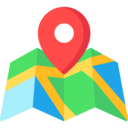
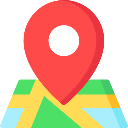
[OSM Scout app] Many fixes. Contributes to OMP#DR-95

diff --git a/qml/pages/MainPage.qml b/qml/pages/MainPage.qml
@@ -38,10 +38,8 @@ Page {
 
     property bool mapFollowing: false
     property var mapGpsPosition: positionSource.position.coordinate
-    property var mapCenterPosition: QtPositioning.coordinate(0, 0)
-    property var pressCoords: QtPositioning.coordinate(0, 0)
-    property var startCoords: QtPositioning.coordinate(0, 0)
-    property var endCoords: QtPositioning.coordinate(0, 0)
+    property var mapCenterPosition: QtPositioning.coordinate(NaN, NaN)
+    property var pressCoords: QtPositioning.coordinate(NaN, NaN)
 
     allowedOrientations: Orientation.Portrait
 
@@ -72,18 +70,8 @@ Page {
                     font.bold: true
                 }
 
-                LineTextField {
-                    id: startLatitude
-
-                    key: qsTr(" - latitude:")
-                    value: qsTr("...")
-                }
-
-                LineTextField {
-                    id: startLongitude
-
-                    key: qsTr(" - longitude:")
-                    value: qsTr("...")
+                CoordField {
+                    id: startCoordField
                 }
 
                 Label {
@@ -91,18 +79,8 @@ Page {
                     font.bold: true
                 }
 
-                LineTextField {
-                    id: endLatitude
-
-                    key: qsTr(" - latitude:")
-                    value: qsTr("...")
-                }
-
-                LineTextField {
-                    id: endLongitude
-
-                    key: qsTr(" - longitude:")
-                    value: qsTr("...")
+                CoordField {
+                    id: endCoordField
                 }
 
                 Row {
@@ -119,13 +97,12 @@ Page {
 
                     Button {
                         text: qsTr("Route")
-                        enabled: startLatitude.text !== "" && startLongitude.text !== ""
-                                 && endLatitude.text !== "" && endLongitude.text !== ""
+                        enabled: startCoordField.coordinate.isValid && endCoordField.coordinate.isValid
                         onClicked: {
                             routeLoadingIndicator.running = true
                             mapRouteQuery.clearWaypoints()
-                            mapRouteQuery.addWaypoint(startCoords)
-                            mapRouteQuery.addWaypoint(endCoords)
+                            mapRouteQuery.addWaypoint(startCoordField.coordinate)
+                            mapRouteQuery.addWaypoint(endCoordField.coordinate)
                             mapRouteModel.update()
                         }
                     }
@@ -197,7 +174,6 @@ Page {
                 }
             }
             Component.onCompleted: map.initMapCenter()
-            onZoomLevelChanged: console.log(zoomLevel)
 
             MapRoute {
                 id: mapRoute
@@ -207,20 +183,20 @@ Page {
                 id: markerStart
 
                 visible: false
-                source: "../images/location-stroked.svg"
+                source: "../images/location.svg"
             }
 
             MapMarker {
                 id: markerFinish
 
                 visible: false
-                source: "../images/location-stroked.svg"
+                source: "../images/location.svg"
             }
 
             MapMarker {
                 coordinate: mapGpsPosition
                 visible: mapGpsPosition.isValid
-                source: "../images/mylocation-stroked.svg"
+                source: "../images/mylocation.svg"
             }
 
             Column {
@@ -256,6 +232,7 @@ Page {
                     rightMargin: Theme.horizontalPageMargin
                 }
                 icon.source: "image://theme/icon-m-menu"
+                highlighted: drawer.open
                 onClicked: drawer.open ? drawer.hide() : drawer.show()
             }
 

diff --git a/translations/harbour-walking-ru.ts b/translations/harbour-walking-ru.ts
@@ -2,6 +2,21 @@
 <!DOCTYPE TS>
 <TS version="2.1" language="ru">
 <context>
+    <name>CoordField</name>
+    <message>
+        <source>latitude:</source>
+        <translation>широта:</translation>
+    </message>
+    <message>
+        <source>longitude:</source>
+        <translation>долгота:</translation>
+    </message>
+    <message>
+        <source>...</source>
+        <translation>...</translation>
+    </message>
+</context>
+<context>
     <name>CoverPage</name>
     <message>
         <source>Walk with
@@ -28,18 +43,6 @@ Sight Safary</translation>
         <source>Route to:</source>
         <translation>Маршрут до:</translation>
     </message>
-    <message>
-        <source> - latitude:</source>
-        <translation> - широта:</translation>
-    </message>
-    <message>
-        <source> - longitude:</source>
-        <translation> - долгота:</translation>
-    </message>
-    <message>
-        <source>...</source>
-        <translation>...</translation>
-    </message>
 </context>
 <context>
     <name>PointDialog</name>
@@ -50,14 +53,6 @@ Sight Safary</translation>
     <message>
         <source>To</source>
         <translation>До</translation>
-    </message>
-    <message>
-        <source>Latitude:</source>
-        <translation>Широта:</translation>
-    </message>
-    <message>
-        <source>Longitude:</source>
-        <translation>Долгота</translation>
     </message>
 </context>
 </TS>

diff --git a/translations/harbour-walking.ts b/translations/harbour-walking.ts
@@ -2,6 +2,21 @@
 <!DOCTYPE TS>
 <TS version="2.1" language="en">
 <context>
+    <name>CoordField</name>
+    <message>
+        <source>latitude:</source>
+        <translation>latitude:</translation>
+    </message>
+    <message>
+        <source>longitude:</source>
+        <translation>longitude:</translation>
+    </message>
+    <message>
+        <source>...</source>
+        <translation>...</translation>
+    </message>
+</context>
+<context>
     <name>CoverPage</name>
     <message>
         <source>Walk with
@@ -28,18 +43,6 @@ Sight Safary</translation>
         <source>Route to:</source>
         <translation>Route to:</translation>
     </message>
-    <message>
-        <source> - latitude:</source>
-        <translation> - latitude:</translation>
-    </message>
-    <message>
-        <source> - longitude:</source>
-        <translation> - longitude:</translation>
-    </message>
-    <message>
-        <source>...</source>
-        <translation>...</translation>
-    </message>
 </context>
 <context>
     <name>PointDialog</name>
@@ -50,14 +53,6 @@ Sight Safary</translation>
     <message>
         <source>To</source>
         <translation>To</translation>
-    </message>
-    <message>
-        <source>Latitude:</source>
-        <translation>Latitude:</translation>
-    </message>
-    <message>
-        <source>Longitude:</source>
-        <translation>Longitude:</translation>
     </message>
 </context>
 </TS>

diff --git a/qml/views/CoordField.qml b/qml/views/CoordField.qml
@@ -28,18 +28,46 @@
 ****************************************************************************/
 
 import QtQuick 2.5
-import QtLocation 5.0
-import QtGraphicalEffects 1.0
+import QtPositioning 5.0
 import Sailfish.Silica 1.0
 
-MapPolyline {
-    line.color: Qt.rgba(0.9, 0.3, 0.3, 1.0)
-    line.width: 5
+Item {
+    property var coordinate: QtPositioning.coordinate(NaN, NaN)
 
-    layer.enabled: true
-    layer.effect: Glow {
-        radius: Theme.paddingSmall / 2
-        samples: radius * 2
-        color: Qt.rgba(0.0, 0.0, 0.0, 1.0)
+    width: row.implicitWidth
+    height: row.implicitHeight
+
+    Row {
+        id: row
+
+        anchors.fill: parent
+        spacing: Theme.paddingSmall
+
+        Image {
+            id: image
+
+            height: column.implicitHeight
+            fillMode: Image.PreserveAspectFit
+            source: "../images/location.svg"
+            sourceSize.height: image.height - Theme.paddingSmall * 2
+        }
+
+        Column {
+            id: column
+
+            InfoField {
+                id: latitude
+
+                key: qsTr("latitude:")
+                value: coordinate.isValid ? coordinate.latitude : qsTr("...")
+            }
+
+            InfoField {
+                id: longitude
+
+                key: qsTr("longitude:")
+                value: coordinate.isValid ? coordinate.longitude : qsTr("...")
+            }
+        }
     }
 }

diff --git a/qml/views/PointDialog.qml b/qml/views/PointDialog.qml
@@ -50,14 +50,8 @@ Rectangle {
         spacing: Theme.paddingMedium
         width: parent.width
 
-        LineTextField {
-            key: qsTr("Latitude:")
-            value: pressCoords.latitude
-        }
-
-        LineTextField {
-            key: qsTr("Longitude:")
-            value: pressCoords.longitude
+        CoordField {
+            coordinate: pressCoords
         }
 
         Row {
@@ -69,9 +63,7 @@ Rectangle {
                 width: Theme.buttonWidthSmall
 
                 onClicked: {
-                    startLatitude.value = pressCoords.latitude
-                    startLongitude.value = pressCoords.longitude
-                    startCoords = pressCoords
+                    startCoordField.coordinate = pressCoords
                     markerStart.coordinate = pressCoords
                     markerStart.visible = true
                     choiceDialog.visible = false
@@ -83,9 +75,7 @@ Rectangle {
                 width: Theme.buttonWidthSmall
 
                 onClicked: {
-                    endLatitude.value = pressCoords.latitude
-                    endLongitude.value = pressCoords.longitude
-                    endCoords = pressCoords
+                    endCoordField.coordinate = pressCoords
                     markerFinish.coordinate = pressCoords
                     markerFinish.visible = true
                     choiceDialog.visible = false

diff --git a/qml/views/MapMarker.qml b/qml/views/MapMarker.qml
@@ -50,6 +50,6 @@ MapQuickItem {
     layer.effect: Glow {
         radius: Theme.paddingSmall / 2
         samples: radius * 2
-        color: Qt.rgba(1.0, 1.0, 1.0, 1.0)
+        color: Qt.rgba(0.0, 0.0, 0.0, 1.0)
     }
 }

diff --git a/src/harbour-walking.cpp b/src/harbour-walking.cpp
@@ -28,9 +28,12 @@
 ****************************************************************************/
 
 #include <QtQuick>
+#include <QtPositioning>
 #include <sailfishapp.h>
 
 int main(int argc, char *argv[])
 {
+    qRegisterMetaType<QGeoPositionInfo>("QGeoPositionInfo");
+
     return SailfishApp::main(argc, argv);
 }

diff --git a/README.md b/README.md
@@ -5,3 +5,5 @@ It uses custom Qt Geo Service [plugin](https://github.com/osanwe/qtgeoservices-o
 and [Sight Safari](https://sightsafari.city/) API.
 
 For using this application you should install `qtgeoservices-osmscoutoffline` Qt plugin mentioned above.
+
+Icons made by [Freepik](https://www.freepik.com) from [www.flaticon.com](https://www.flaticon.com/).
